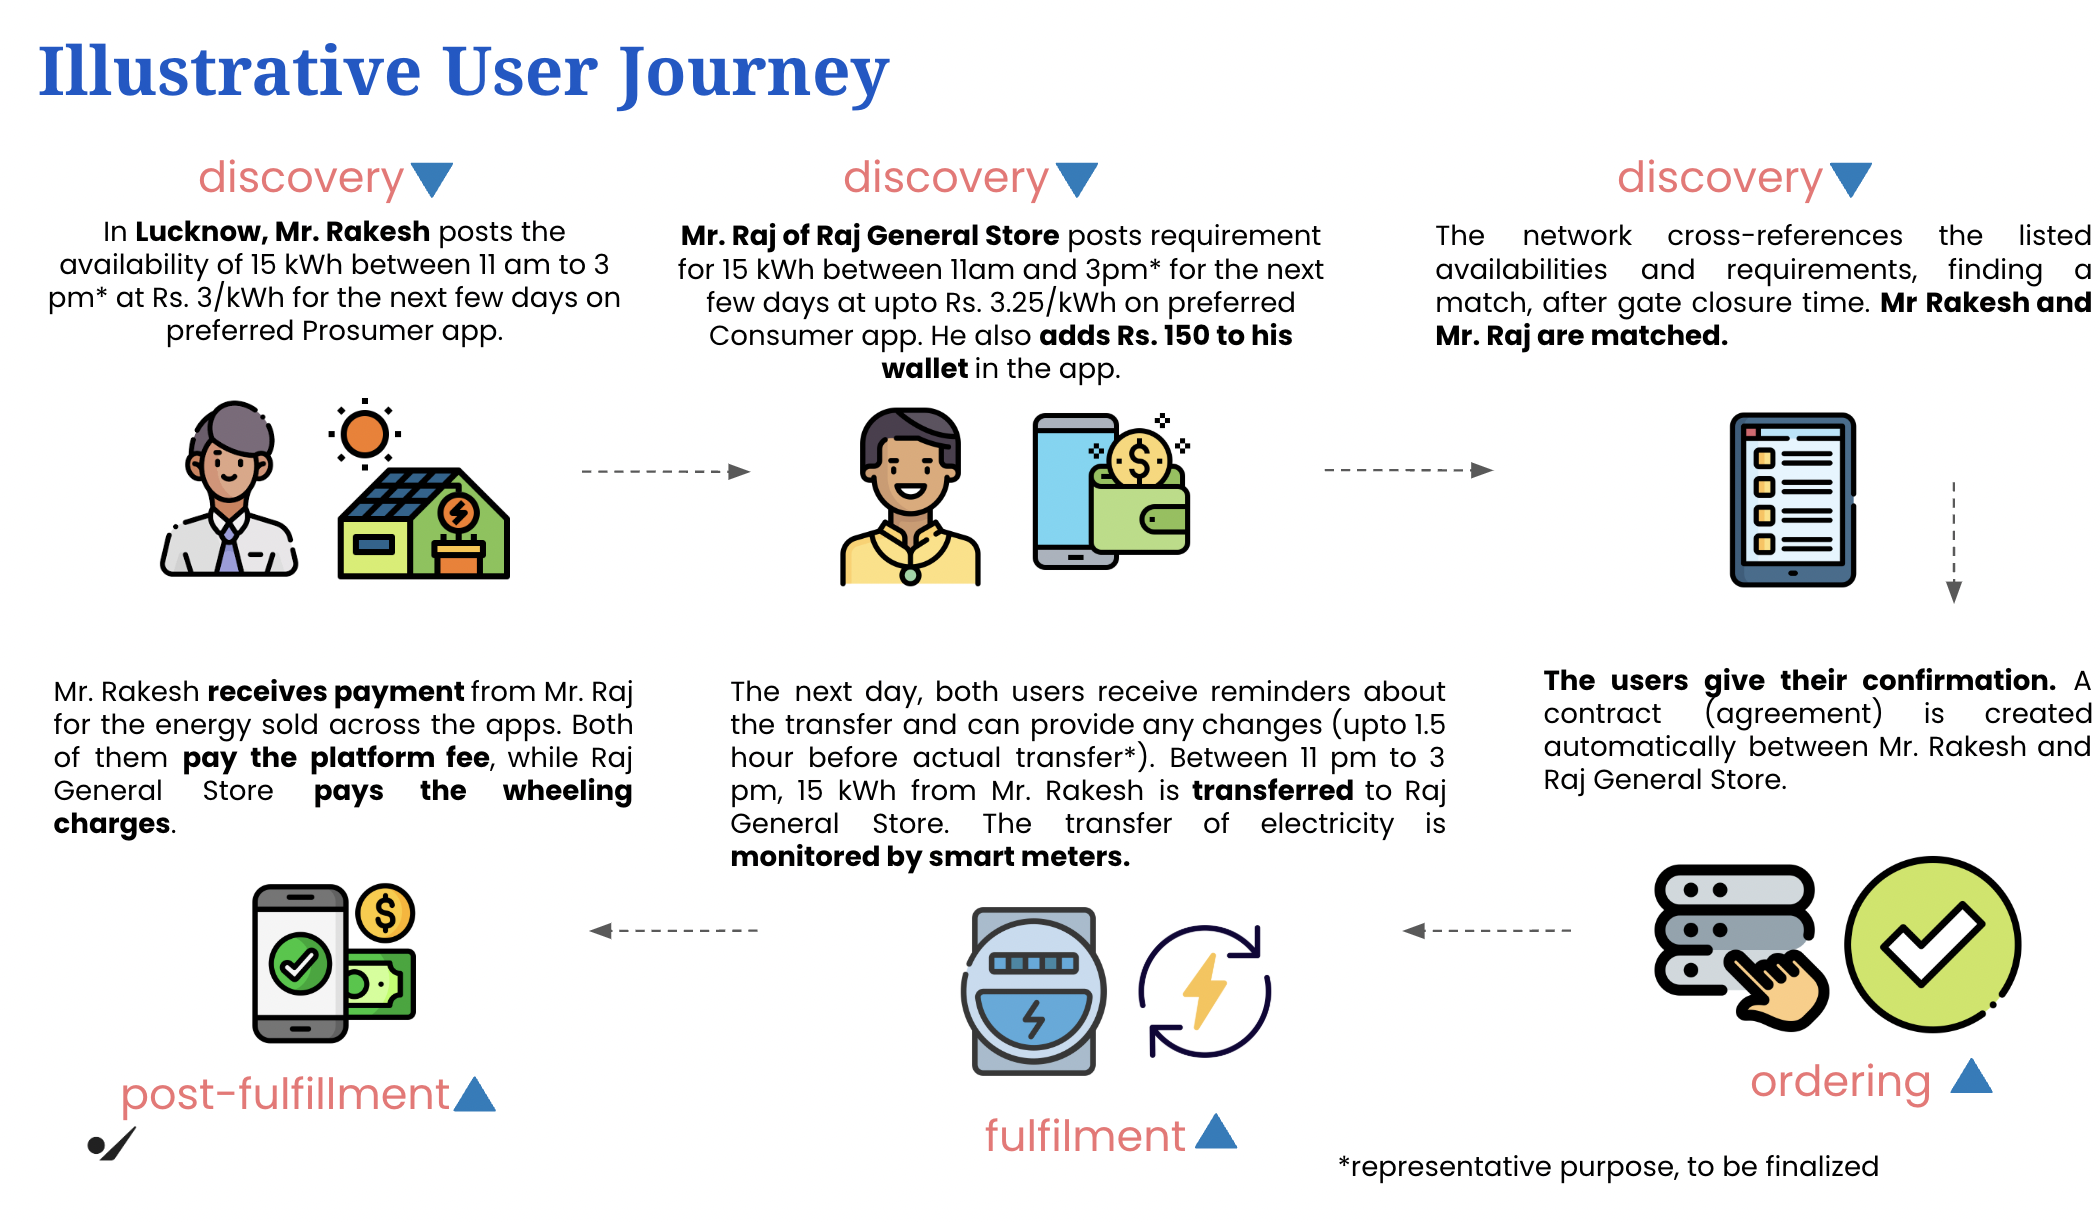
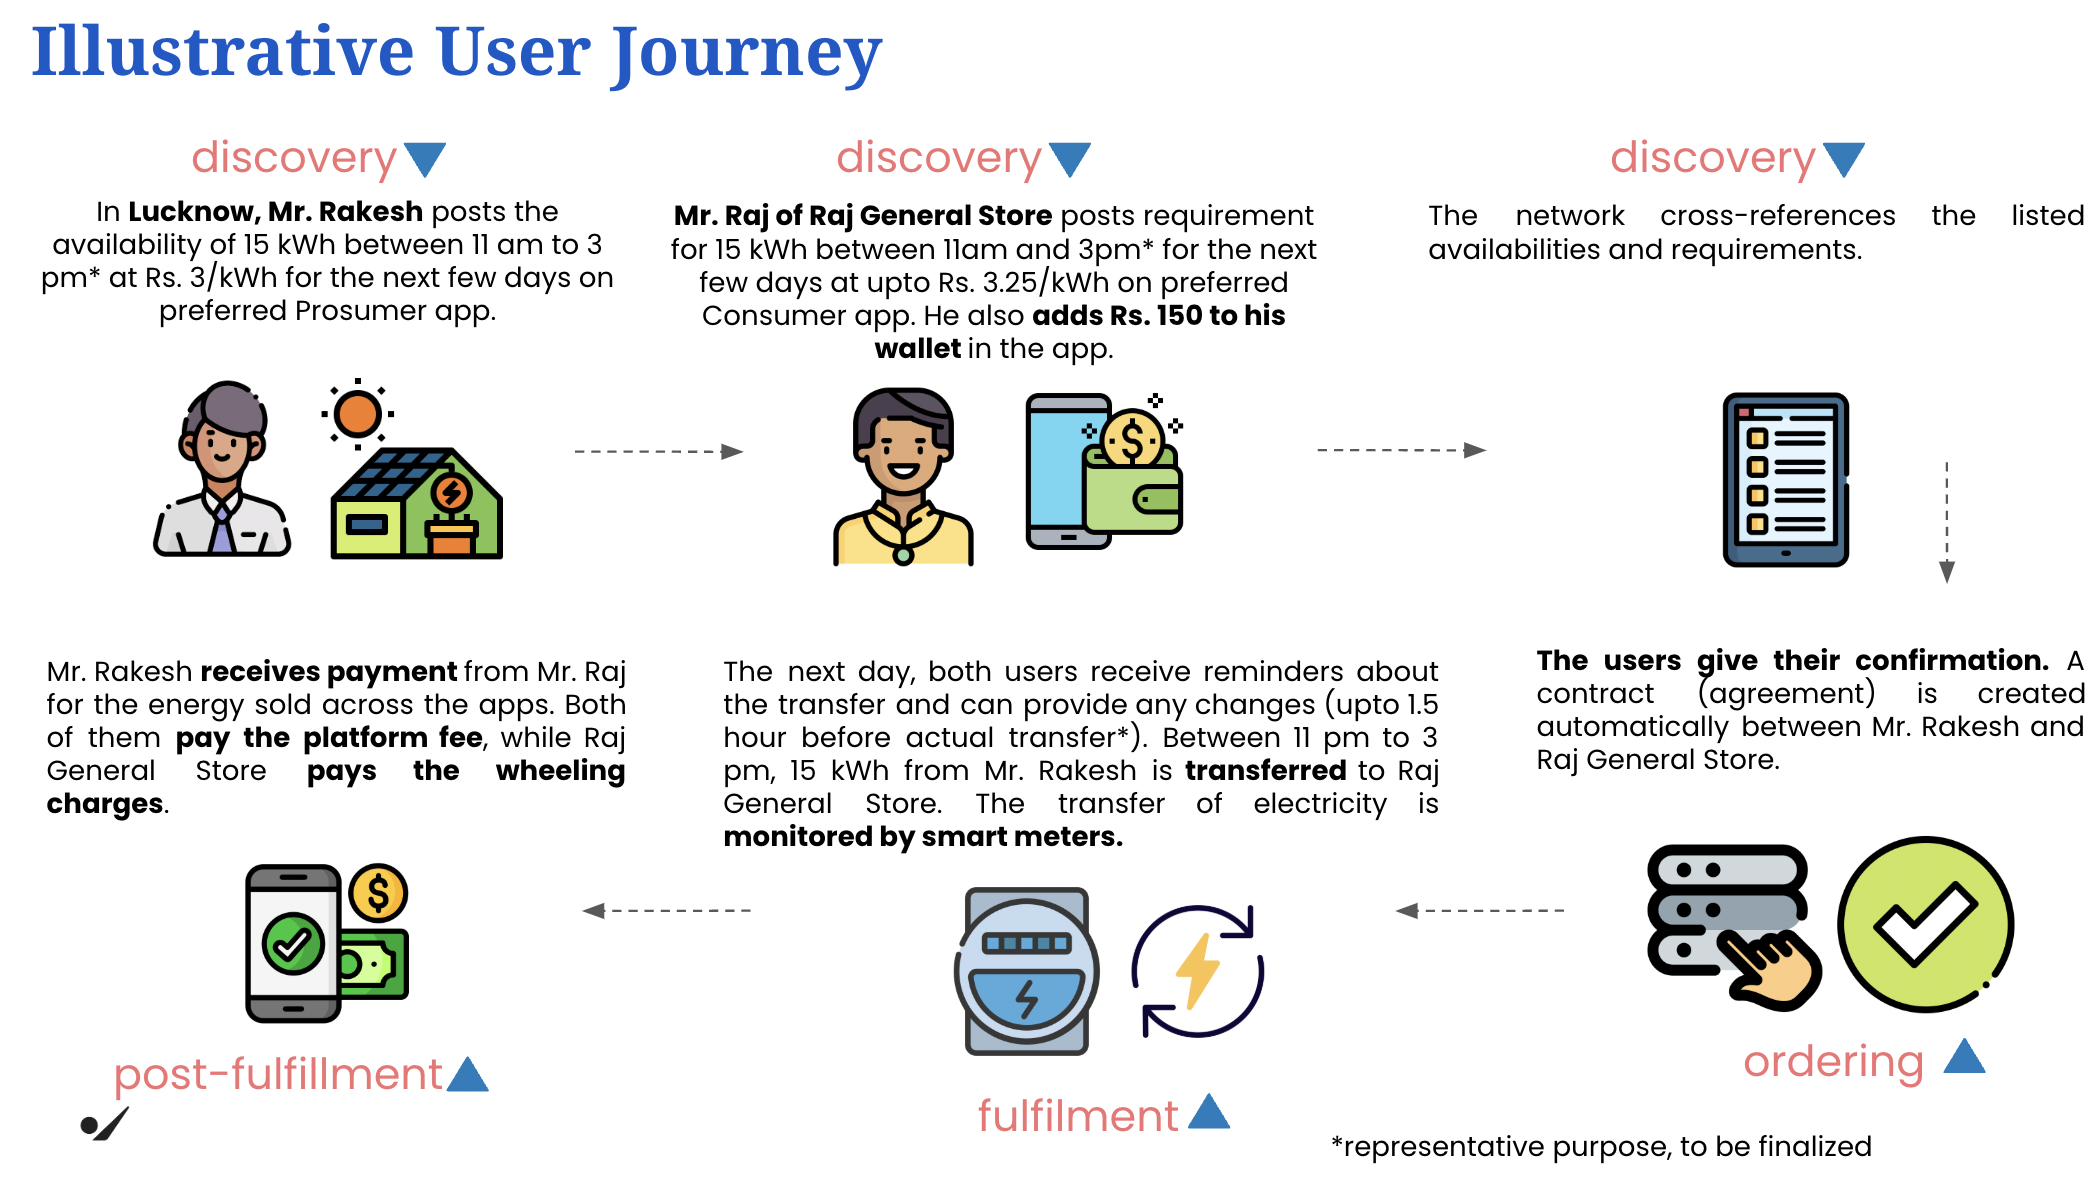
UPPCL impl guide: update user journey, visualisation image, observability layer api endpoint names

diff --git a/UEI/implementation_guide_P2P_energy_trade.md b/UEI/implementation_guide_P2P_energy_trade.md
@@ -26,42 +26,22 @@ This document has the following parts:
 
 ## Outcome Visualisation
 
+**Context**
+Peer-to-peer Energy Trading on a virtual network-based model for P2P energy trading involving the decentralised exchange of electricity between producers and consumers within a localised grid network, under the distribution coverage of DISCOMs. It allows individuals and groups to buy and sell surplus renewable energy directly to each other, bypassing traditional energy suppliers. The aim is to reduce energy costs, promote renewable energy use and enhance the security and resilience of the energy grid.
+
 ![UEI Charging Outcome Visualization](images/uei_p2p_energy_trade.png)
 
 ### Use case - Discovery, order and fulfillment of EV Charging
 
-- Raj is a general store owner in Lucknow. He wants to buy affordable solar energy for his general store.
-- Rakesh is a resident of Lucknow. He has a solar plant installed on the roof of his house and wants to sell the surplus solar energy directly to consumers.
-
-- Rakesh logs into the preferred Prosumer app.
-- He posts the availability of 15 kWh of surplus energy, specifying:
-    Time: 11 am to 3 pm
-    Price: Rs. 3/kWh
-    Duration: chooses the preferred time slot(s)
-- Rakesh reviews and confirms the listing.
-
-**Discovery**:
-
-- Raj logs into the preferred Consumer app.
-- He searches for 15 kWh of energy, specifying:
-    Time: 11 am to 3 pm
-    Price: Willing to pay up to Rs. 3.25/kWh
-    Duration: chooses the preferred time slot(s)
-- Raj receives a catalog of surplus solar energy available for sale that matches his search request.
-
-**Order**:
-
-- Raj selects a listing from Rakesh. Raj and Rakesh negotiate and finalsie the price.
-- Raj provides the billing information.
-- Both Rakesh and Mr. Raj confirm the match on their respective apps. A contract/agreement is automatically generated between Rakesh and Raj General Store.
-
-**Fulfillment**:
-
-- Raj and Rakesh are allowed to make any last-minute changes in the order up to X hours before the scheduled transfer.
-- Between 11 am and 3 pm, 15 kWh of electricity is transferred from Rakesh to Raj General Store.
-- The transfer is monitored in real-time via smart meters to ensure transparency and accuracy.
-- Based on the actual consumption and production of solar energy at the consumer and the prosumer side, the order details are updated and the order is marked as fulfilled.
-- This transaction is adjusted in the regular bill cycle by the discom.
+**User Journey**
+- The prosumer (e.g., Rakesh) creates a new listing on their app for surplus energy, specifying details such as availability (15 kWh), time slot (11 am to 3 pm), and price (Rs. 3/kWh). The listing is stored on the BPP (Buyer-Provider Platform) for visibility.
+- The consumer (e.g., Mr. Raj) searches for energy via their app on Day T-1. A catalog of available energy options is displayed, showing details like quantity, time slots, and price.
+- The consumer selects a listing, initiates quote negotiation, and confirms (agreement) an order if terms align (e.g., up to Rs. 3.25/kWh). Orders finalized before the gate close time are stored on the Observability Layer for tracking. 
+- On the transaction day (Day T), reminders are sent to both parties.Both the prosumer and consumer have the option to make last-minute adjustments (e.g., quantity or timing) up to a cutoff time (e.g. 1.5 hours before transfer).
+- The energy transfer is carried out between the specified time slots (e.g., 11 am to 3 pm) and monitored via smart meters. Meter data for both prosumer and consumer is recorded periodically on the Observability Layer.
+- The Allocation Engine fetches confirmed (agreed) order details and meter data from the Observability Layer after a cutoff time. Energy units are allocated to consumers, and the confirmed order records are updated in the Observability Layer accordingly.
+- The BAP (Buyer Aggregator Platform) and BPP read updated order data and confirm fulfilment. Payments are settled between BAP and BPP, including platform fees and wheeling charges.
+- Both users confirm the successful transaction and receive a summary of energy transferred, payment details and platform and wheeling fees paid
 
 
 ## Flow diagrams
@@ -1689,7 +1669,7 @@ How does the Observability Layer verify the integrity of the message
   }
 ```
 
-**Use Observability Layer PUT order/ API to store time series meter data in the Observability Layer**
+**Use Observability Layer PUT fulfillment_event/ API to store time series meter data in the Observability Layer**
 
 ```
 {
@@ -1825,7 +1805,7 @@ Host: api.example.com
[1 lines of base64/hex data omitted]
 ```
 
-**Use Observability Layer GET order/ API to fetch meter data**
+**Use Observability Layer GET fulfillment_events/ API to fetch meter data**
 
 ```
 {
@@ -1927,7 +1907,7 @@ Authorization: Signature keyId="example-bap.com|ae3ea24b-cfec-495e-81f8-044aaef1
 }
 ```
 
-BPP can use the GET order/ API endpoint of the Observability Layer to fetch the updated Order objects.
+BPP can use the GET order/ API endpoint of the Observability Layer to fetch the updated Order objects and update their local copy of the Orders.
 
 ### status
 
